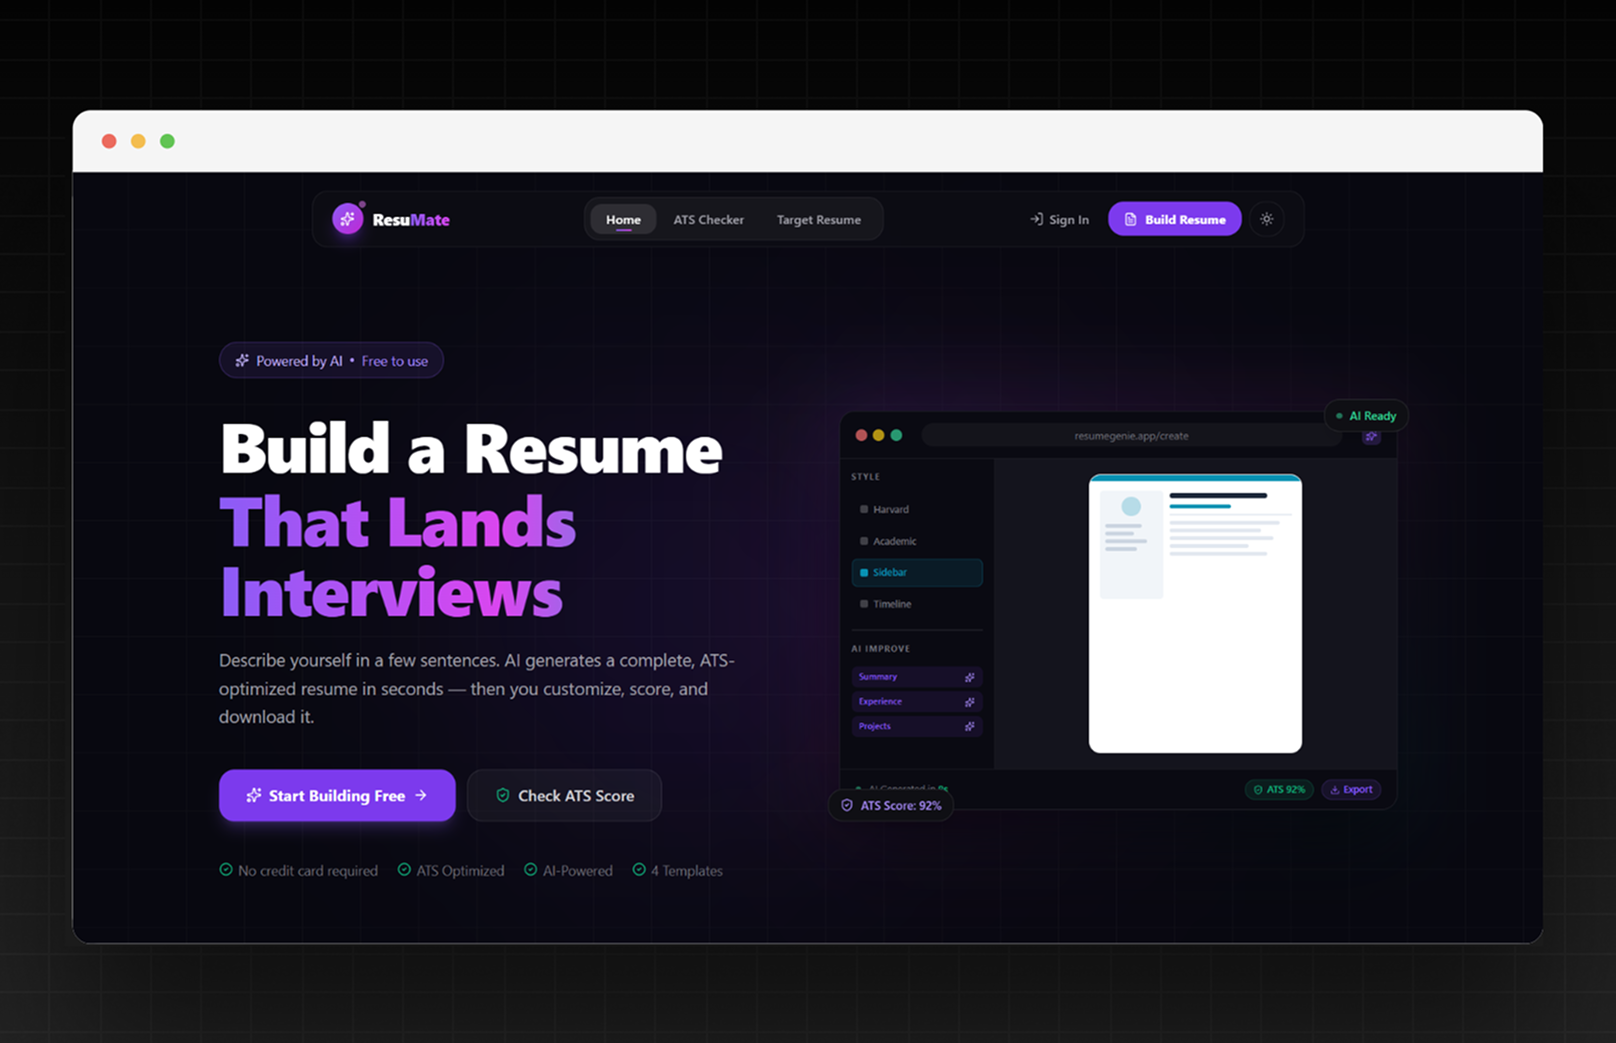
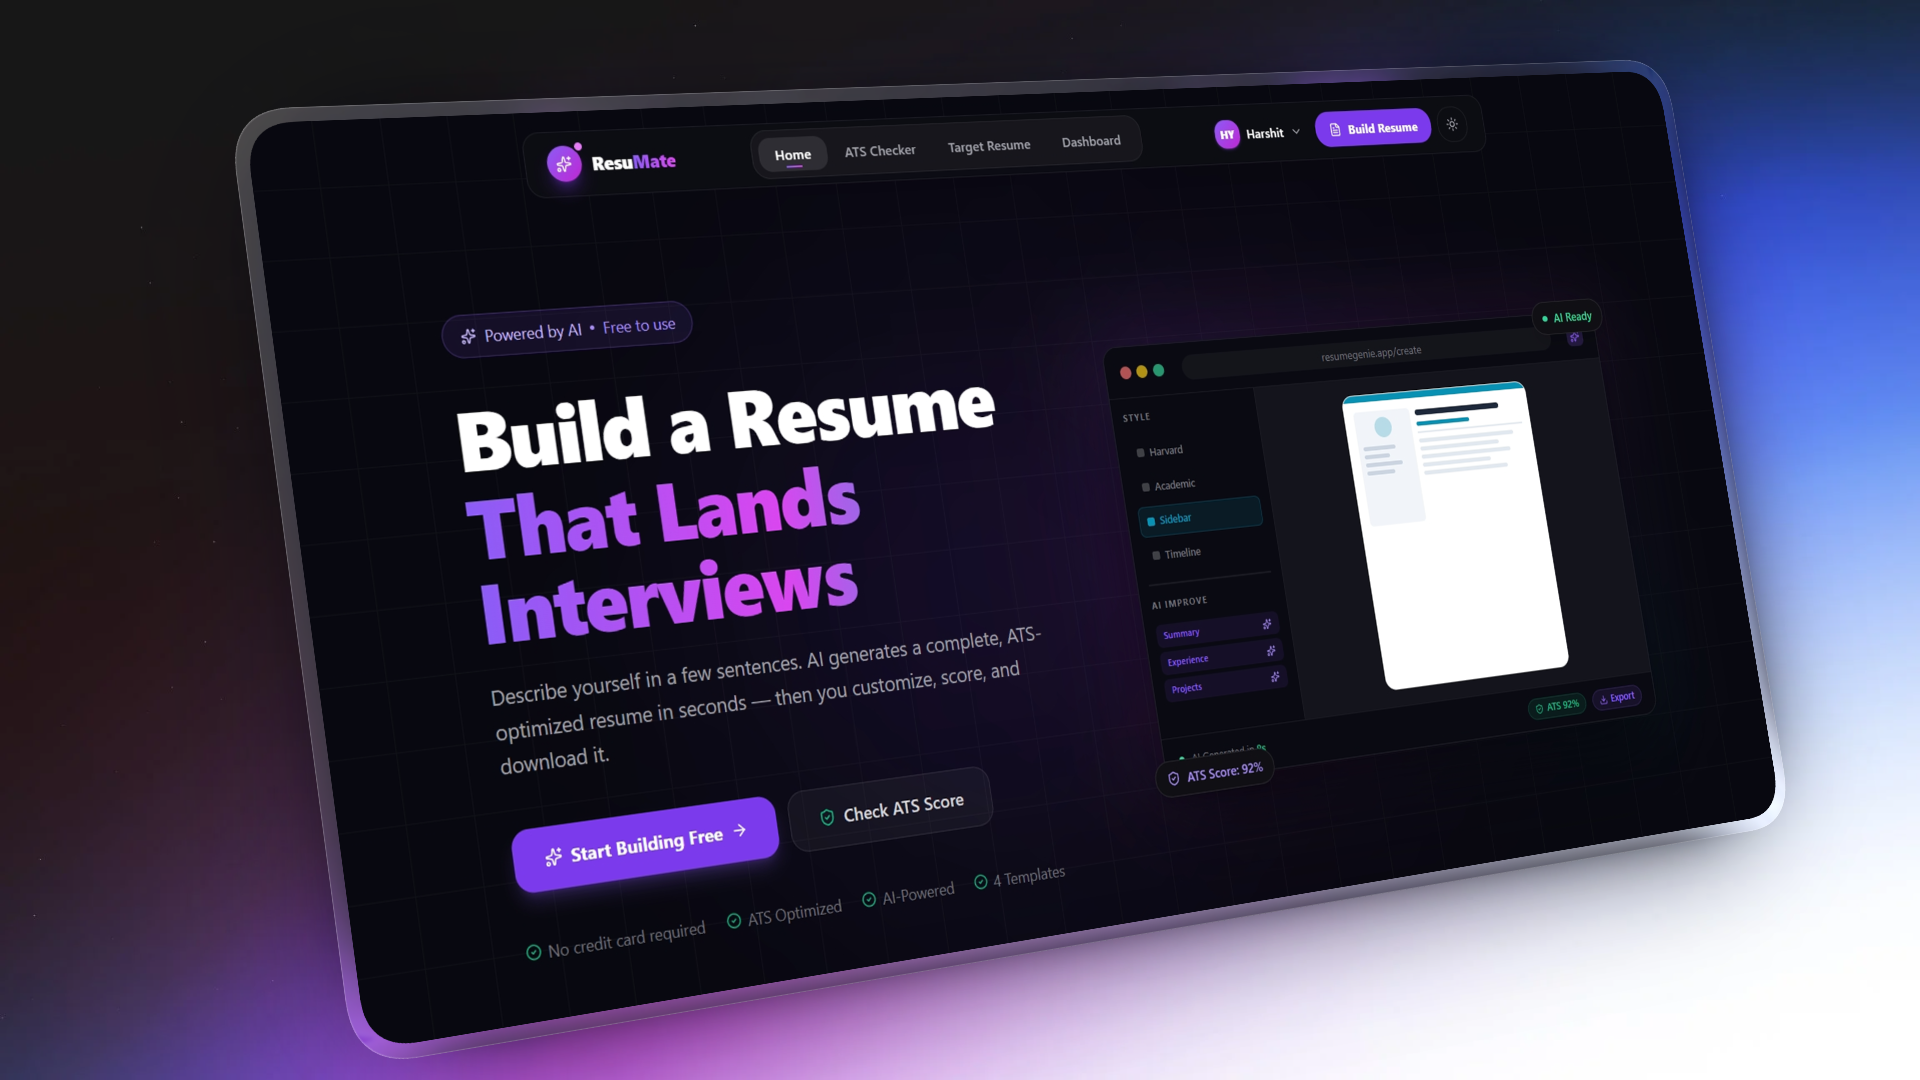
chore: update AI Resume Builder project image and configuration

diff --git a/src/config/Projects.tsx b/src/config/Projects.tsx
@@ -11,7 +11,7 @@ export const projects: Project[] = [
     title: 'AI Resume Builder',
     description:
       'A powerful AI-driven resume builder that helps users craft professional resumes instantly.',
-    image: '/project/resumate.png',
+    image: '/project/ai-resume-builder.png',
 
     link: 'https://resumate-olive.vercel.app/',
     technologies: [
